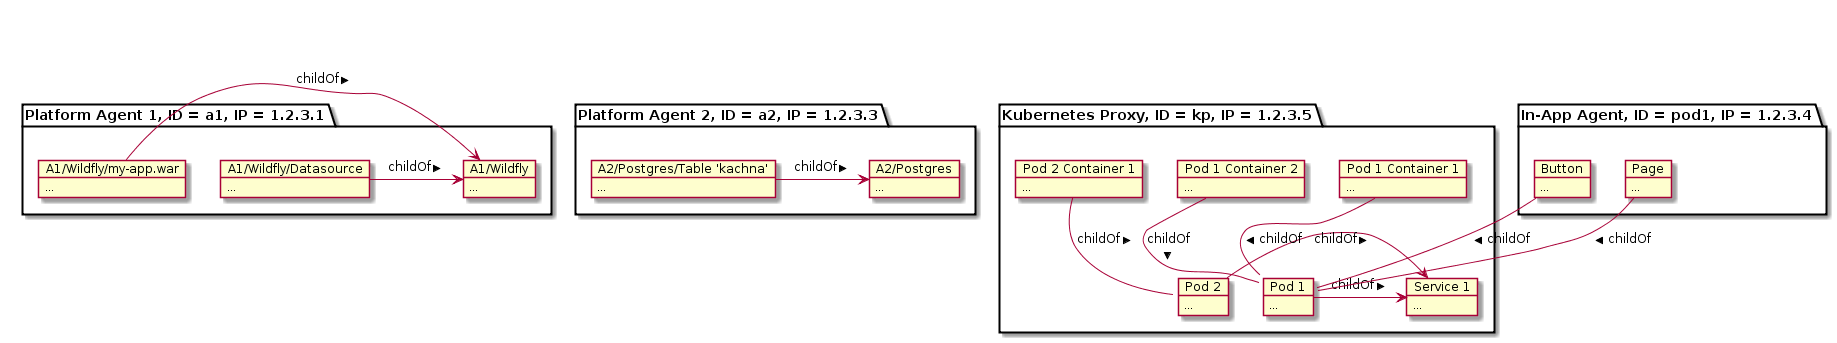
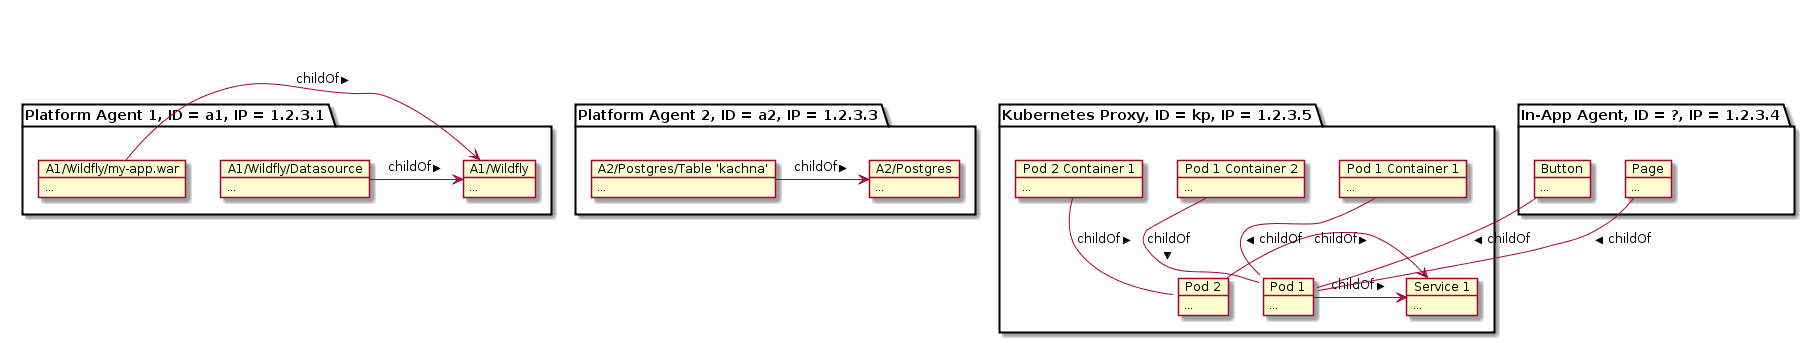
refresh with the latest content

diff --git a/doc/architecture.html b/doc/architecture.html
@@ -672,17 +672,20 @@ queue to look like this:</p>
 </div>
 <div class="imageblock">
 <div class="content">
-<img src="discovery-queue-4.png" alt="discovery queue 4" width="1837" height="343">
+<img src="discovery-queue-4.png" alt="discovery queue 4" width="1805" height="343">
 </div>
 </div>
 <div class="paragraph">
 <p>Notice that it was not able to realize what container the application
 managed by the <code>In-App Agent</code> runs in, because that information is not
 available in kubernetes (containers in a pod share IP address and (parts
-of) filesystem), but it was able to locate the agent and assign it ID of
-<code>pod1</code> so that it is IP-independent. The user could have the possibility to
-reorganize the the resource hierarchy even further by specifying that the 2
-resources lived under <code>Pod1 Container2</code> resource if they so wished.</p>
+of) filesystem), but it was able to figure out that the resources are part
+of the Pod1 resource based on the IP info from kubernetes. The user could
+have the possibility to reorganize the the resource hierarchy even further
+by specifying that the 2 resources lived under <code>Pod1 Container2</code> resource
+if they so wished. The ID of the agent remains unassigned though because
+there is no way of knowing what agent is reporting if there were more of
+them inside <code>Pod 1</code>.</p>
 </div>
 <div class="paragraph">
 <p>When the IP of the <code>Pod 1</code> changes again, we receive data from the <code>In-App
@@ -714,6 +717,95 @@ or fashion.</p>
 </div>
 <div class="sect2">
 <h3 id="_data_identity">Data Identity</h3>
+<div class="paragraph">
+<p>Currently in RHQ, resources are the primary entities with identity. Identity
+of other incoming data like measurements, configurations, etc. are derived
+from the identity of the resource.</p>
+</div>
+<div class="paragraph">
+<p>As I outlined in the
+<a href="https://docs.jboss.org/author/display/RHQ/Proposal+-+Poly-agent+RHQ">Poly-
+agent proposal</a>, I think that for us to enable agent-less monitoring (i.e.
+apps/scripts directly sending data), we need to be able to uniquely identify
+individual measurements, configurations, etc. This is to a) not impose too
+much responsibility for RHQ-specific identification on the senders and b) be
+able to compose ad-hoc resources in the server from data coming from agents.</p>
+</div>
+<div class="paragraph">
+<p>Technically we would probably still use a "dummy" resource even for agents
+that do not understand the concept of multiple resources per agent so that
+resourceAddress + datumID becomes a unique identifier of a piece of data.
+The resource address would probably be a combination of agentID<br>
+resourceAncestry where ancestry is just a "path" of agent-local resource
+identifiers.</p>
+</div>
+<div class="paragraph">
+<p>This arrangement would also enable us to consume data from other systems
+where the agentID would identify the other system and resourceAncestry and
+datumID would describe the "path" to the piece of data in that system. Maybe
+we could even encode the whole of that as an URI to not require multiple
+fields to identify the data.</p>
+</div>
+<div class="paragraph">
+<p><code>agent-type://agentName/resourceAddr/datumID</code></p>
+</div>
+<div class="ulist">
+<ul>
+<li>
+<p><code><em>agent-type</em></code> - identifies the type of the agent (somewhat obviously).
+This can be used to keep track of what 3rd party system was used to obtain
+the information. Possible values would be <code>rhq</code>, <code>collectd</code>, <code>cadvisor</code>,
+etc.</p>
+<div class="paragraph">
+<p>Note that RHQ will usually not be able to determine this value but rather
+would have to be told (possibly by URL path it receives the data on) what
+the agent type is. This is because the type of the agent can be different
+than the format we received the data in (i.e. we can receive a datapoint as
+a graphite triplet, a json object, &#8230;&#8203; but that doesn&#8217;t tell us what system
+this value comes from).</p>
+</div>
+<div class="paragraph">
+<p>We need to distinguish different agent types because the <code>agentName</code>
+format/value will depend on it. It is possible that 2 types of agents have
+the same logical "name".</p>
+</div>
+</li>
+<li>
+<p><code><em>agentName</em></code> - The (possibly empty) name of the agent as established by
+the hierarchy resolver.</p>
+<div class="paragraph">
+<p>For example the collectd resolver will use the host part of the collectd
+identifier to get the host which then can be further analyzed by for
+example the kubernetes resolver to determine the name of the pod which is
+finally used as the agent name.</p>
+</div>
+</li>
+<li>
+<p><code><em>resourceAddr</em></code> - The possibly empty address of the resource in the
+hierarchy of resources <strong>as understood by the agent</strong>. Note that because of
+the support for composition of custom resources out of arbitrary data on
+the server side, this might be different from the (number of) resource
+addresses as known on the server.</p>
+</li>
+<li>
+<p><code><em>datumID</em></code> - This is the name of the data point. This the exact string
+sent up from the agent and hence it might encode information that is also
+present in other parts of the full data identifier (think about the
+collectd identifiers that always include the host in it). Also note that
+this ID might evolve in time (again think about collectd identifiers when
+the IP of the machine changes). It is up to RHQ to handle the linking of
+the changes (using versioning) using something similar as hierarchy
+resolvers described in the <a href="#_discovery_workflow">Discovery Workflow</a> chapter.</p>
+</li>
+</ul>
+</div>
+<div class="paragraph">
+<p>Given the description above, the full <code>agentID</code> referred to in the previous
+chapters would actually have a form <code>agent-type://agentName</code>.</p>
+</div>
+</div>
+<div class="sect2">
+<h3 id="_data_types">Data Types</h3>
 <div class="paragraph">
 <p>TODO</p>
 </div>
@@ -770,10 +862,30 @@ or fashion.</p>
 </div>
 </div>
 </div>
+<div class="sect1">
+<h2 id="_apis">APIs</h2>
+<div class="sectionbody">
+<div class="paragraph">
+<p>TODO</p>
+</div>
+<div class="sect2">
+<h3 id="_client_api">Client API</h3>
+<div class="paragraph">
+<p>TODO</p>
+</div>
+</div>
+<div class="sect2">
+<h3 id="_agent_api">Agent API</h3>
+<div class="paragraph">
+<p>TODO</p>
+</div>
+</div>
+</div>
+</div>
 </div>
 <div id="footer">
 <div id="footer-text">
-Last updated 2014-11-05 22:02:30 CET
+Last updated 2014-11-06 18:27:41 CET
 </div>
 </div>
 </body>
